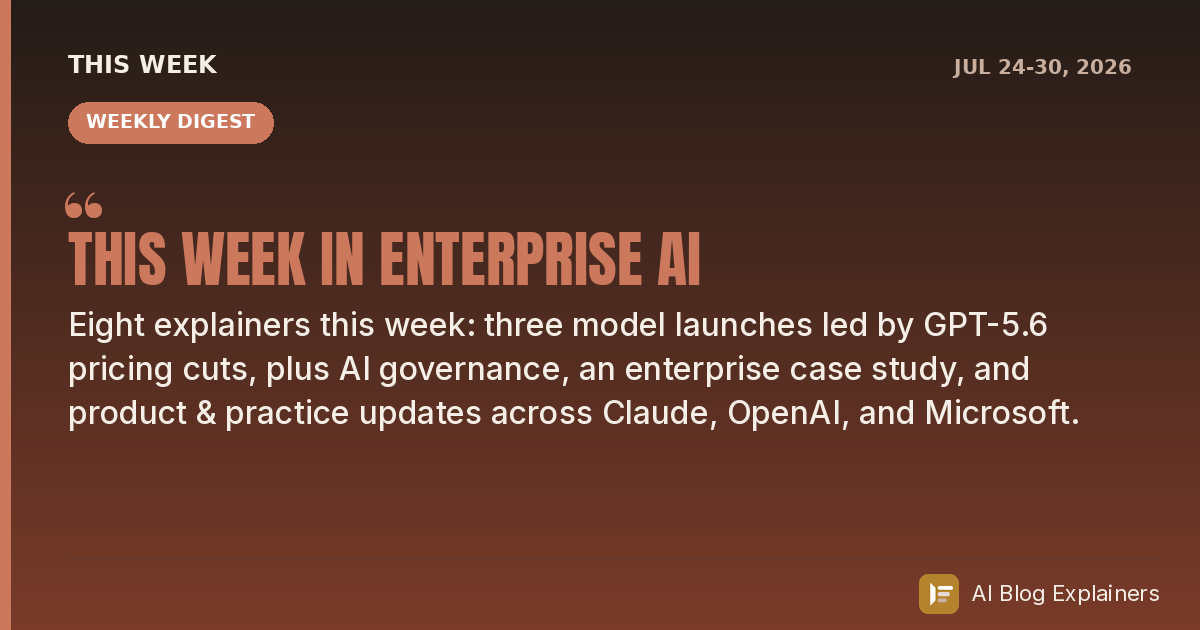
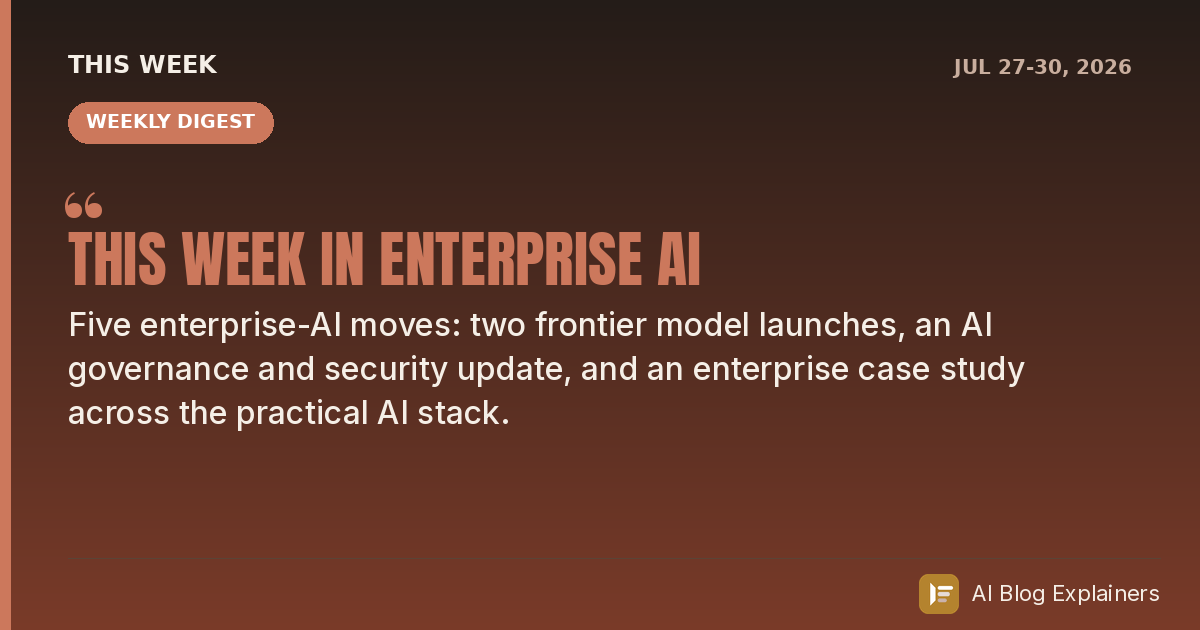
Weekly rollup refresh: This Week in Enterprise AI (Jul 27-30, 2026)

diff --git a/this-week.html b/this-week.html
@@ -6,7 +6,7 @@
 <link rel="icon" href="favicon.svg" type="image/svg+xml">
 <meta property="og:type" content="website">
 <meta property="og:title" content="This Week in Enterprise AI">
-<meta property="og:description" content="8 explainers from 4 sources this week — the enterprise, agentic-AI, and governance moves worth your attention, grouped by theme.">
+<meta property="og:description" content="5 explainers from 4 sources this week — the enterprise, agentic-AI, and governance moves worth your attention, grouped by theme.">
 <meta property="og:url" content="https://snigdhadasgupta.github.io/ai-blog-explainers/this-week.html">
 <meta property="og:image" content="https://snigdhadasgupta.github.io/ai-blog-explainers/share-cards/this-week.png">
 <meta property="og:image:secure_url" content="https://snigdhadasgupta.github.io/ai-blog-explainers/share-cards/this-week.png">
@@ -70,15 +70,15 @@
     </svg>
   </div>
   <div class="wrap">
-    <span class="tag">This week &middot; Jul 24 – Jul 30, 2026</span>
+    <span class="tag">This week &middot; Jul 27 – Jul 30, 2026</span>
     <h1>This Week in Enterprise AI</h1>
-    <p>8 explainers from 4 sources this week — the enterprise, agentic-AI, and governance moves worth your attention, grouped by theme.</p>
+    <p>5 explainers from 4 sources this week — the enterprise, agentic-AI, and governance moves worth your attention, grouped by theme.</p>
   </div>
 </header>
 <main><div class="wrap">
   
     <div class="wk-theme">
-      <div class="wk-eyebrow"><span></span>Model launches <em>3</em></div>
+      <div class="wk-eyebrow"><span></span>Model launches <em>2</em></div>
       <div class="wk-grid">
       <a class="wk-card" href="explainers/advancing-the-price-performance-frontier-with-gpt-5-6.html">
         <div class="wk-top"><span class="wk-badge" style="background:#0F9D77">OpenAI</span><span class="wk-cat">Model Launch</span></div>
@@ -90,12 +90,6 @@
         <div class="wk-top"><span class="wk-badge" style="background:#0F9D77">OpenAI</span><span class="wk-cat">Model Launch</span></div>
         <h3>How GPT-5.6 Fuses Frontier Intelligence with Efficiency</h3>
         <p>OpenAI's GPT-5.6 family is engineered for intelligence-per-dollar — a tiered lineup (Sol, Terra, Luna) plus deep inference and agentic-harness optimizations, many of them landed by GPT-5.6 Sol itself running inside Codex.</p>
-        <span class="wk-rt">6 min &middot; Read explainer &rarr;</span>
-      </a>
-      <a class="wk-card" href="explainers/claude-opus-5.html">
-        <div class="wk-top"><span class="wk-badge" style="background:#CC785C">Claude</span><span class="wk-cat">Model Launch</span></div>
-        <h3>Introducing Claude Opus 5</h3>
-        <p>Opus 5 comes close to Fable 5's frontier intelligence at half the price — new state-of-the-art on coding and knowledge work, stronger at verifying its own work, and Anthropic's most aligned model to date.</p>
         <span class="wk-rt">6 min &middot; Read explainer &rarr;</span>
       </a></div>
     </div>
@@ -120,24 +114,12 @@
       </a></div>
     </div>
     <div class="wk-theme">
-      <div class="wk-eyebrow"><span></span>Product & practice <em>3</em></div>
+      <div class="wk-eyebrow"><span></span>Product & practice <em>1</em></div>
       <div class="wk-grid">
       <a class="wk-card" href="explainers/bringing-mcp-2026-07-28-to-claude.html">
         <div class="wk-top"><span class="wk-badge" style="background:#CC785C">Claude</span><span class="wk-cat">Agents</span></div>
         <h3>MCP 2026-07-28: A Stateless Core Comes to Claude</h3>
         <p>The fifth MCP spec moves the protocol to a stateless request/response core, graduates MCP Apps and Tasks as versioned extensions, and hardens auth for enterprise identity — now rolling out across Claude products.</p>
-        <span class="wk-rt">5 min &middot; Read explainer &rarr;</span>
-      </a>
-      <a class="wk-card" href="explainers/the-new-rules-of-context-engineering-for-claude-5-generation-models.html">
-        <div class="wk-top"><span class="wk-badge" style="background:#CC785C">Claude</span><span class="wk-cat">Claude Code</span></div>
-        <h3>The New Rules of Context Engineering for Claude 5 Models</h3>
-        <p>Anthropic removed over 80% of Claude Code's system prompt for its newest models with no measurable loss — and seven context-engineering 'best practices' flipped. Here's what replaced them.</p>
-        <span class="wk-rt">5 min &middot; Read explainer &rarr;</span>
-      </a>
-      <a class="wk-card" href="explainers/claude-models-explained-choosing-the-best-model-for-your-use-case.html">
-        <div class="wk-top"><span class="wk-badge" style="background:#CC785C">Claude</span><span class="wk-cat">Enterprise AI</span></div>
-        <h3>Claude Models Explained: Choosing the Best Model for Your Use Case</h3>
-        <p>Mythos, Fable, Opus, Sonnet, Haiku — start with the most intelligent model and tune with effort level. Why cost-per-task beats cost-per-token, and how evals settle the choice.</p>
         <span class="wk-rt">5 min &middot; Read explainer &rarr;</span>
       </a></div>
     </div>
